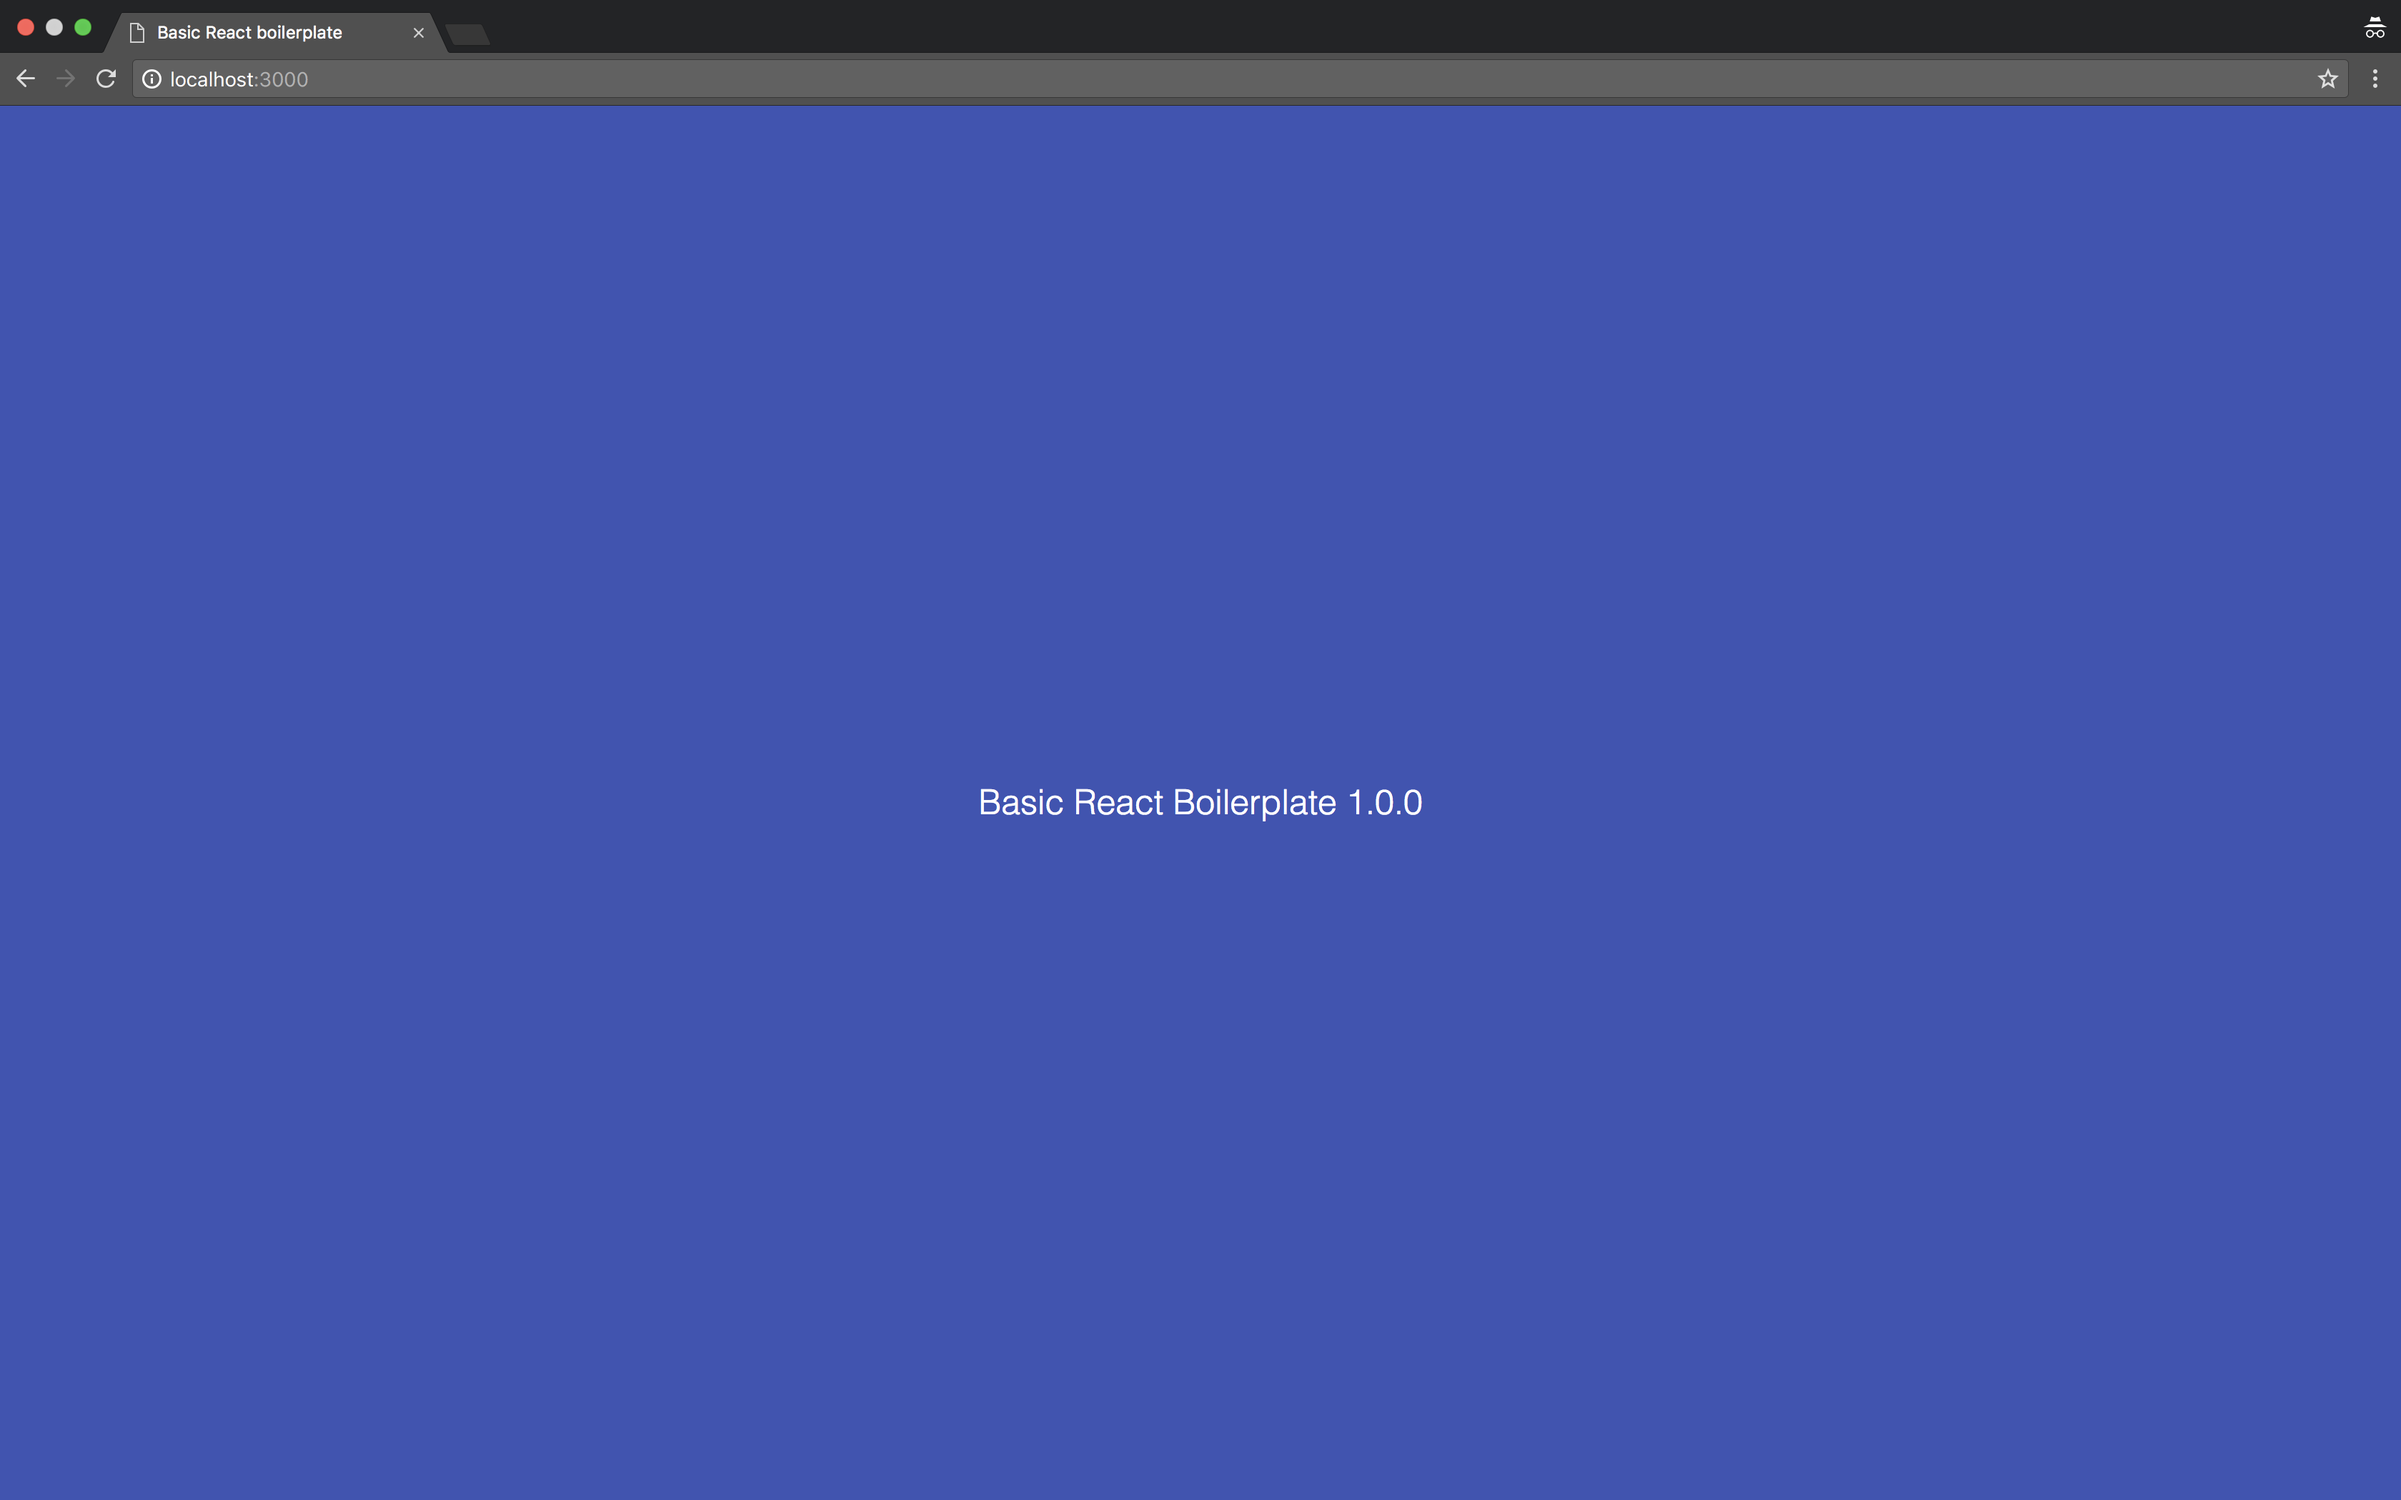
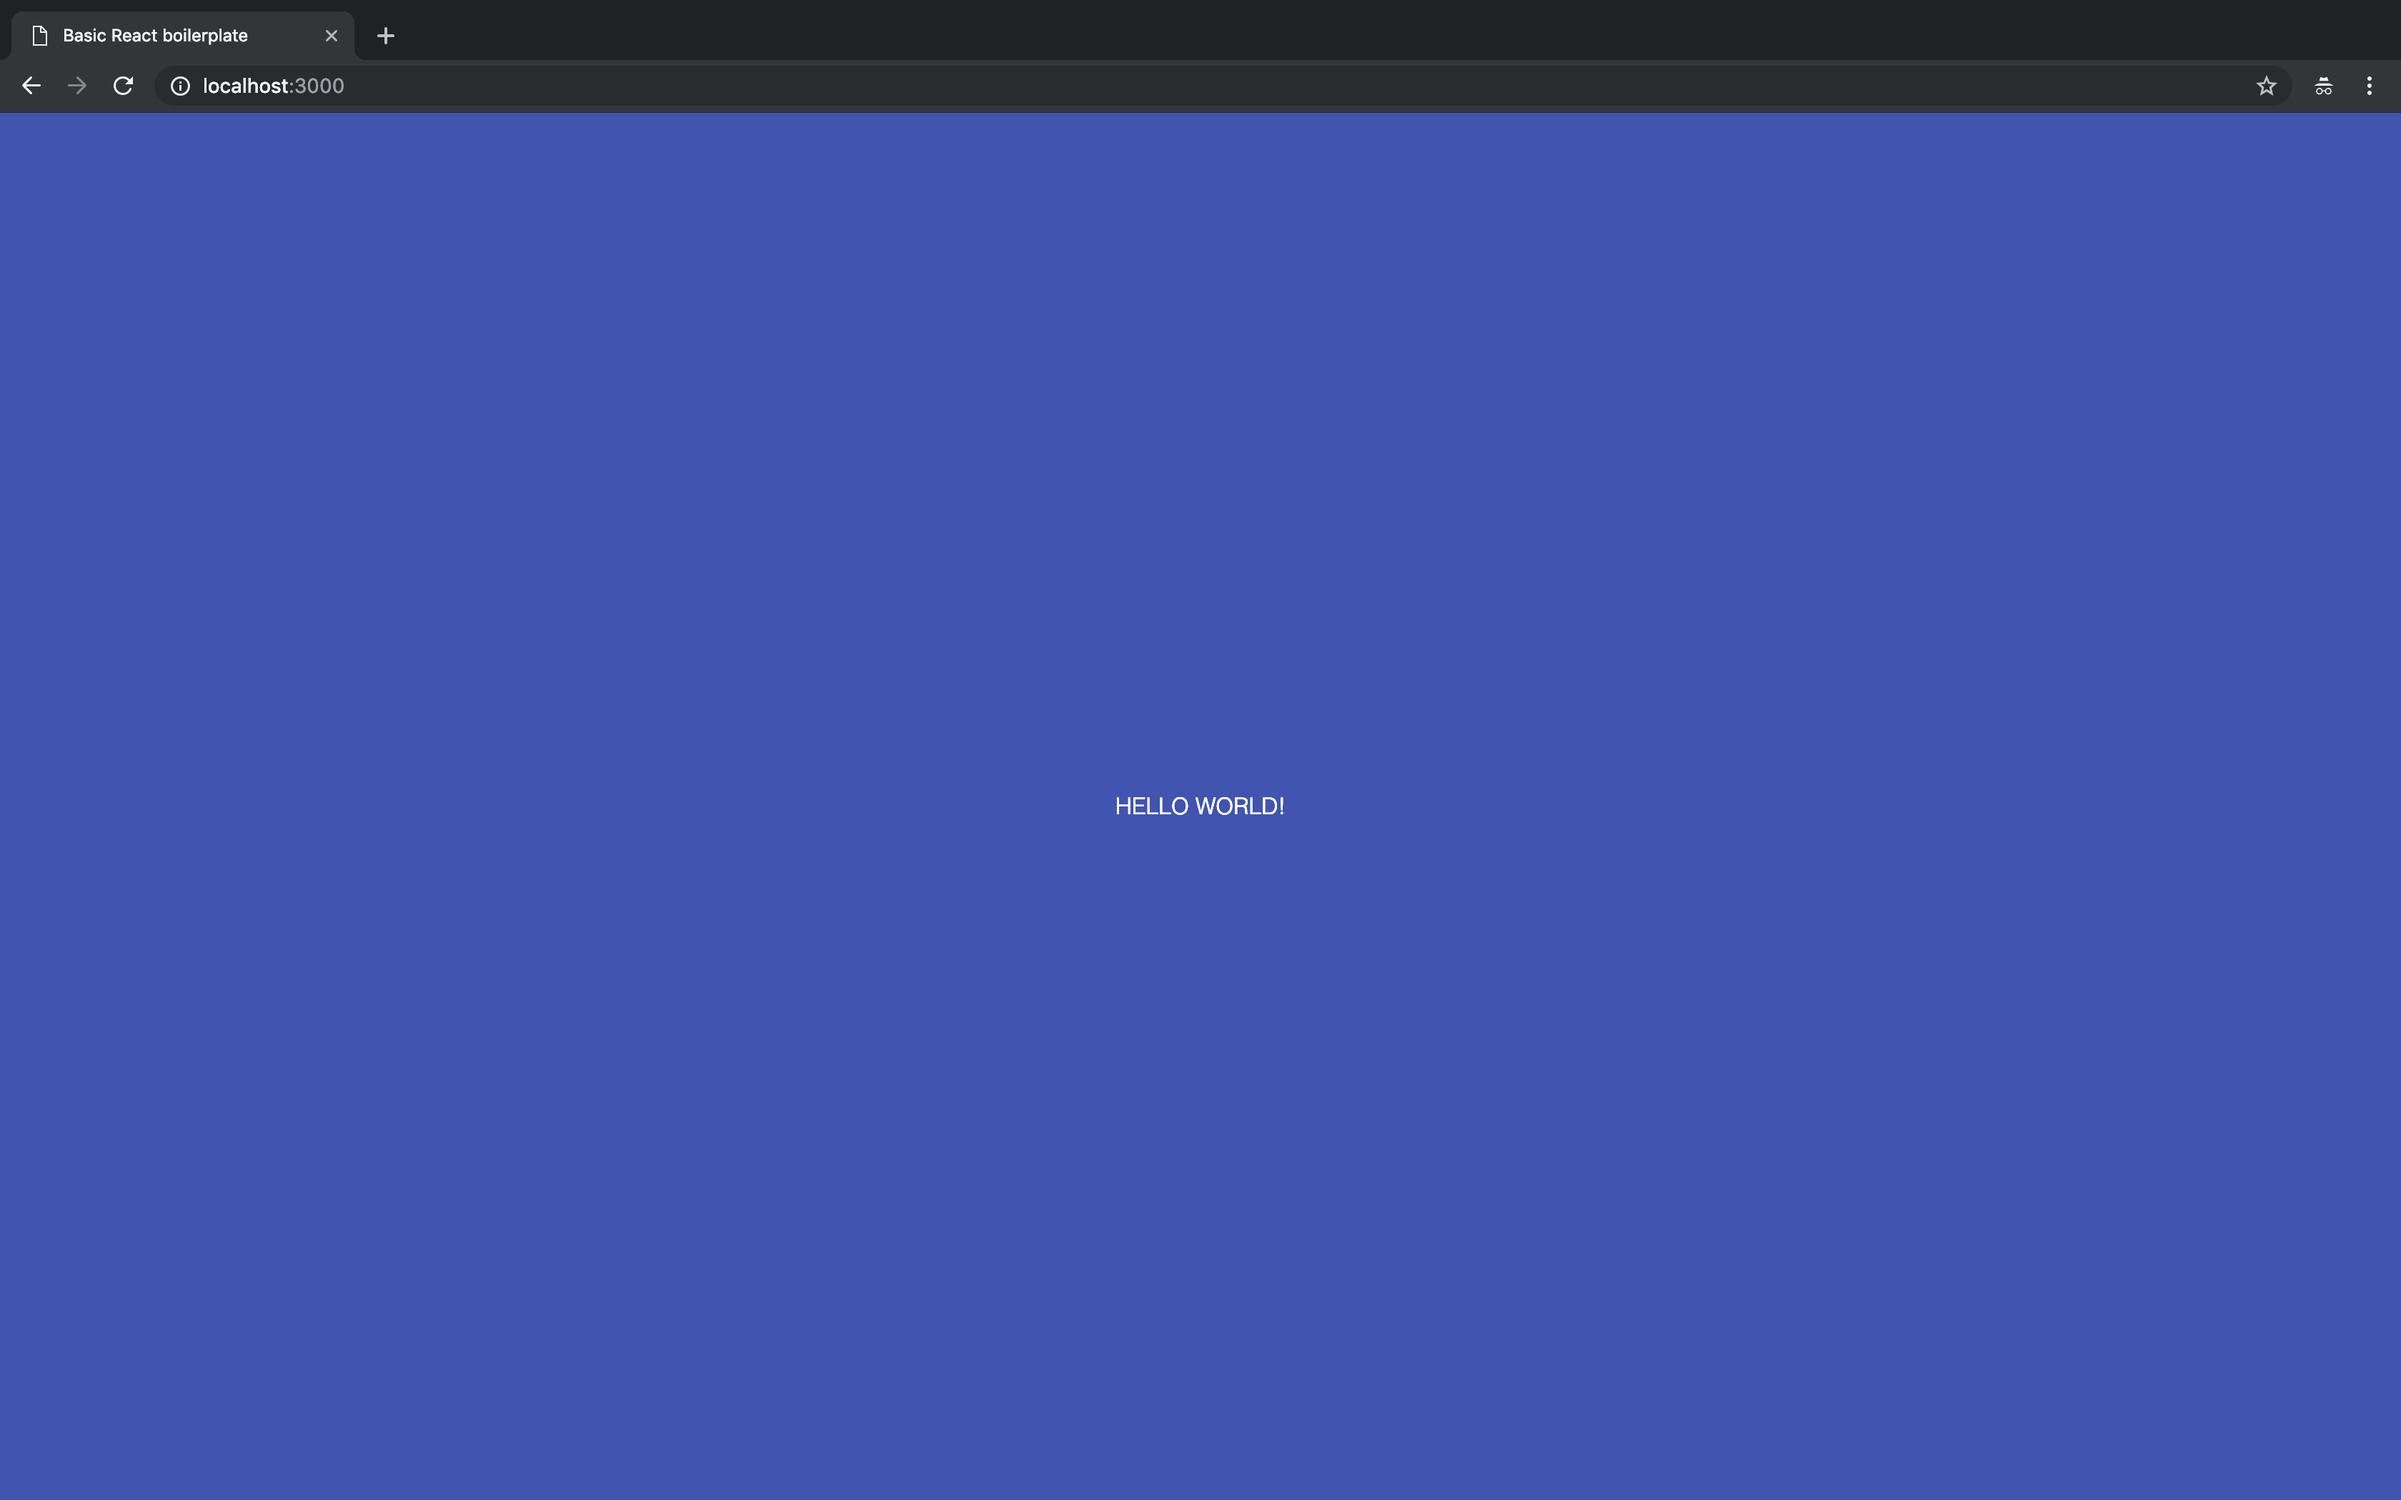
better theming and linter changes

Changed region(s): [[0.0, 0.0, 1.0, 0.0929], [0.4062, 0.5262, 0.5938, 0.5571]]

diff --git a/src/components/App/App.js b/src/components/App/App.js
@@ -1,68 +1,6 @@
 import React, { Fragment } from 'react';
 import PropTypes from 'prop-types';
-import { createGlobalStyle } from 'styled-components';
-import theme from '../../theme';
-import robotoLight from '../../assets/fonts/Roboto-Light.ttf';
-import MaterialIcons from '../../assets/fonts/MaterialIcons-Regular.ttf';
-
-// eslint-disable-next-line
-const GlobalStyle = createGlobalStyle`
-    @font-face {
-        font-family: 'Roboto';
-        font-style: normal;
-        font-weight: 300;
-        src: url('${robotoLight}') format('truetype');
-    }
-    
-    @font-face {
-        font-family: 'Material Icons';
-        font-style: normal;
-        font-weight: 400;
-        src: url('${MaterialIcons}') format('truetype');
-    }
-    
-    .material-icons {
-        font-family: 'Material Icons';
-        font-weight: normal;
-        font-style: normal;
-        font-size: 24px;  /* Preferred icon size */
-        display: inline-block;
-        line-height: 1;
-        text-transform: none;
-        letter-spacing: normal;
-        word-wrap: normal;
-        white-space: nowrap;
-        direction: ltr;
-      
-        /* Support for all WebKit browsers. */
-        -webkit-font-smoothing: antialiased;
-        /* Support for Safari and Chrome. */
-        text-rendering: optimizeLegibility;
-      
-        /* Support for Firefox. */
-        -moz-osx-font-smoothing: grayscale;
-      
-        /* Support for IE. */
-        font-feature-settings: 'liga';
-    }
-    
-    body {
-        width: 100vw;
-        height: 100vh;
-        display: flex;
-        align-items: center;
-        justify-content: center;
-        font-family: Roboto, sans-serif;
-        font-weight: 100;
-        font-size: 24px;
-        color: ${theme.onPrimary};
-        background: ${theme.primary};
-    }
-      
-    div, header {
-        box-sizing: border-box;
-    }
-`;
+import GlobalStyle from '../GlobalStyle';
 
 const App = ({ title }) => (
     <Fragment>
@@ -76,7 +14,7 @@ App.propTypes = {
 };
 
 App.defaultProps = {
-    title: 'Basic React Boilerplate 1.0.0',
+    title: 'HELLO WORLD!',
 };
 
 export default App;

diff --git a/src/components/GlobalStyle/GlobalStyle.js b/src/components/GlobalStyle/GlobalStyle.js
@@ -1,0 +1,61 @@
+import { createGlobalStyle } from 'styled-components';
+import robotoLight from '../../assets/fonts/Roboto-Light.ttf';
+import MaterialIcons from '../../assets/fonts/MaterialIcons-Regular.ttf';
+
+const GlobalStyle = createGlobalStyle`
+    @font-face {
+        font-family: 'Roboto';
+        font-style: normal;
+        font-weight: 300;
+        src: url('${robotoLight}') format('truetype');
+    }
+    
+    @font-face {
+        font-family: 'Material Icons';
+        font-style: normal;
+        font-weight: 400;
+        src: url('${MaterialIcons}') format('truetype');
+    }
+    
+    .material-icons {
+        font-family: 'Material Icons';
+        font-weight: normal;
+        font-style: normal;
+        font-size: 24px;  /* Preferred icon size */
+        display: inline-block;
+        line-height: 1;
+        text-transform: none;
+        letter-spacing: normal;
+        word-wrap: normal;
+        white-space: nowrap;
+        direction: ltr;
+        /* Support for all WebKit browsers. */
+        -webkit-font-smoothing: antialiased;
+        /* Support for Safari and Chrome. */
+        text-rendering: optimizeLegibility;
+        /* Support for Firefox. */
+        -moz-osx-font-smoothing: grayscale;
+        /* Support for IE. */
+        font-feature-settings: 'liga';
+    }
+
+    html, body {
+        width: 100%;
+        height: 1px;
+        min-height: 100%;
+    }
+
+    #root {
+        height: 100%;
+        display: flex;
+        justify-content: center;
+        align-items: center;
+        color: ${props => props.theme.colors.onPrimary};
+        font-family: ${props => props.theme.typography.fontFamily};
+        font-weight: ${props => props.theme.typography.fontWeight};
+        font-size: ${props => props.theme.typography.fontSize};
+        background: ${props => props.theme.colors.primary};
+    }
+`;
+
+export default GlobalStyle;

diff --git a/webpack.common.js b/webpack.common.js
@@ -18,7 +18,7 @@ export default {
                         loader: 'file-loader',
                         options: {
                             name: '[hash].[ext]',
-                            outputPath: 'images/',
+                            outputPath: 'images',
                         },
                     },
                 ],
@@ -30,7 +30,8 @@ export default {
                     {
                         loader: 'file-loader',
                         options: {
-                            outputPath: 'fonts/',
+                            name: '[name].[ext]',
+                            outputPath: 'fonts',
                         },
                     },
                 ],

diff --git a/.eslintrc.js b/.eslintrc.js
@@ -13,19 +13,7 @@ module.exports = {
         'react/jsx-indent': [1, 4],
         'react/jsx-indent-props': [1, 4],
         'react/jsx-closing-tag-location': 'off',
+        'import/no-extraneous-dependencies': 'off',
         'react/jsx-filename-extension': [1, { 'extensions': ['.js', '.jsx'] }],
     },
-    'overrides': [
-        {
-            'files': [
-                'webpack.common.js',
-                'webpack.production.babel.js',
-                'webpack.development.babel.js',
-                './src/store/configureStore.dev.js',
-            ],
-            'rules': {
-                'import/no-extraneous-dependencies': 'off',
-            },
-        },
-    ],
 };

diff --git a/src/theme/media.js b/src/theme/media.js
@@ -1,0 +1,20 @@
+import { css } from 'styled-components';
+
+const sizes = {
+    sm: 575,
+    md: 767,
+    lg: 991,
+    xl: 1199,
+    xxl: 1599,
+};
+
+const media = Object.keys(sizes).reduce((acc, size) => ({
+    ...acc,
+    [size]: (...args) => css`
+        @media (max-width: ${sizes[size]}px) {
+            ${css(...args)};
+        }
+    `,
+}));
+
+export default media;

diff --git a/src/index.js b/src/index.js
@@ -5,8 +5,6 @@ import { ThemeProvider } from 'styled-components';
 import App from './components/App';
 import configureStore from './store/configureStore';
 import theme from './theme';
-// eslint-disable-next-line
-import 'normalize.css';
 
 const root = document.getElementById('root');
 const store = configureStore();

diff --git a/src/theme/index.js b/src/theme/index.js
@@ -1,0 +1,10 @@
+import media from './media';
+import colors from './colors';
+import typography from './typography';
+import 'normalize.css';
+
+export default {
+    media,
+    colors,
+    typography,
+};

diff --git a/src/theme/typography.js b/src/theme/typography.js
@@ -1,0 +1,5 @@
+export default {
+    fontWeight: 100,
+    fontSize: '16px',
+    fontFamily: 'Roboto, sans-serif',
+};
